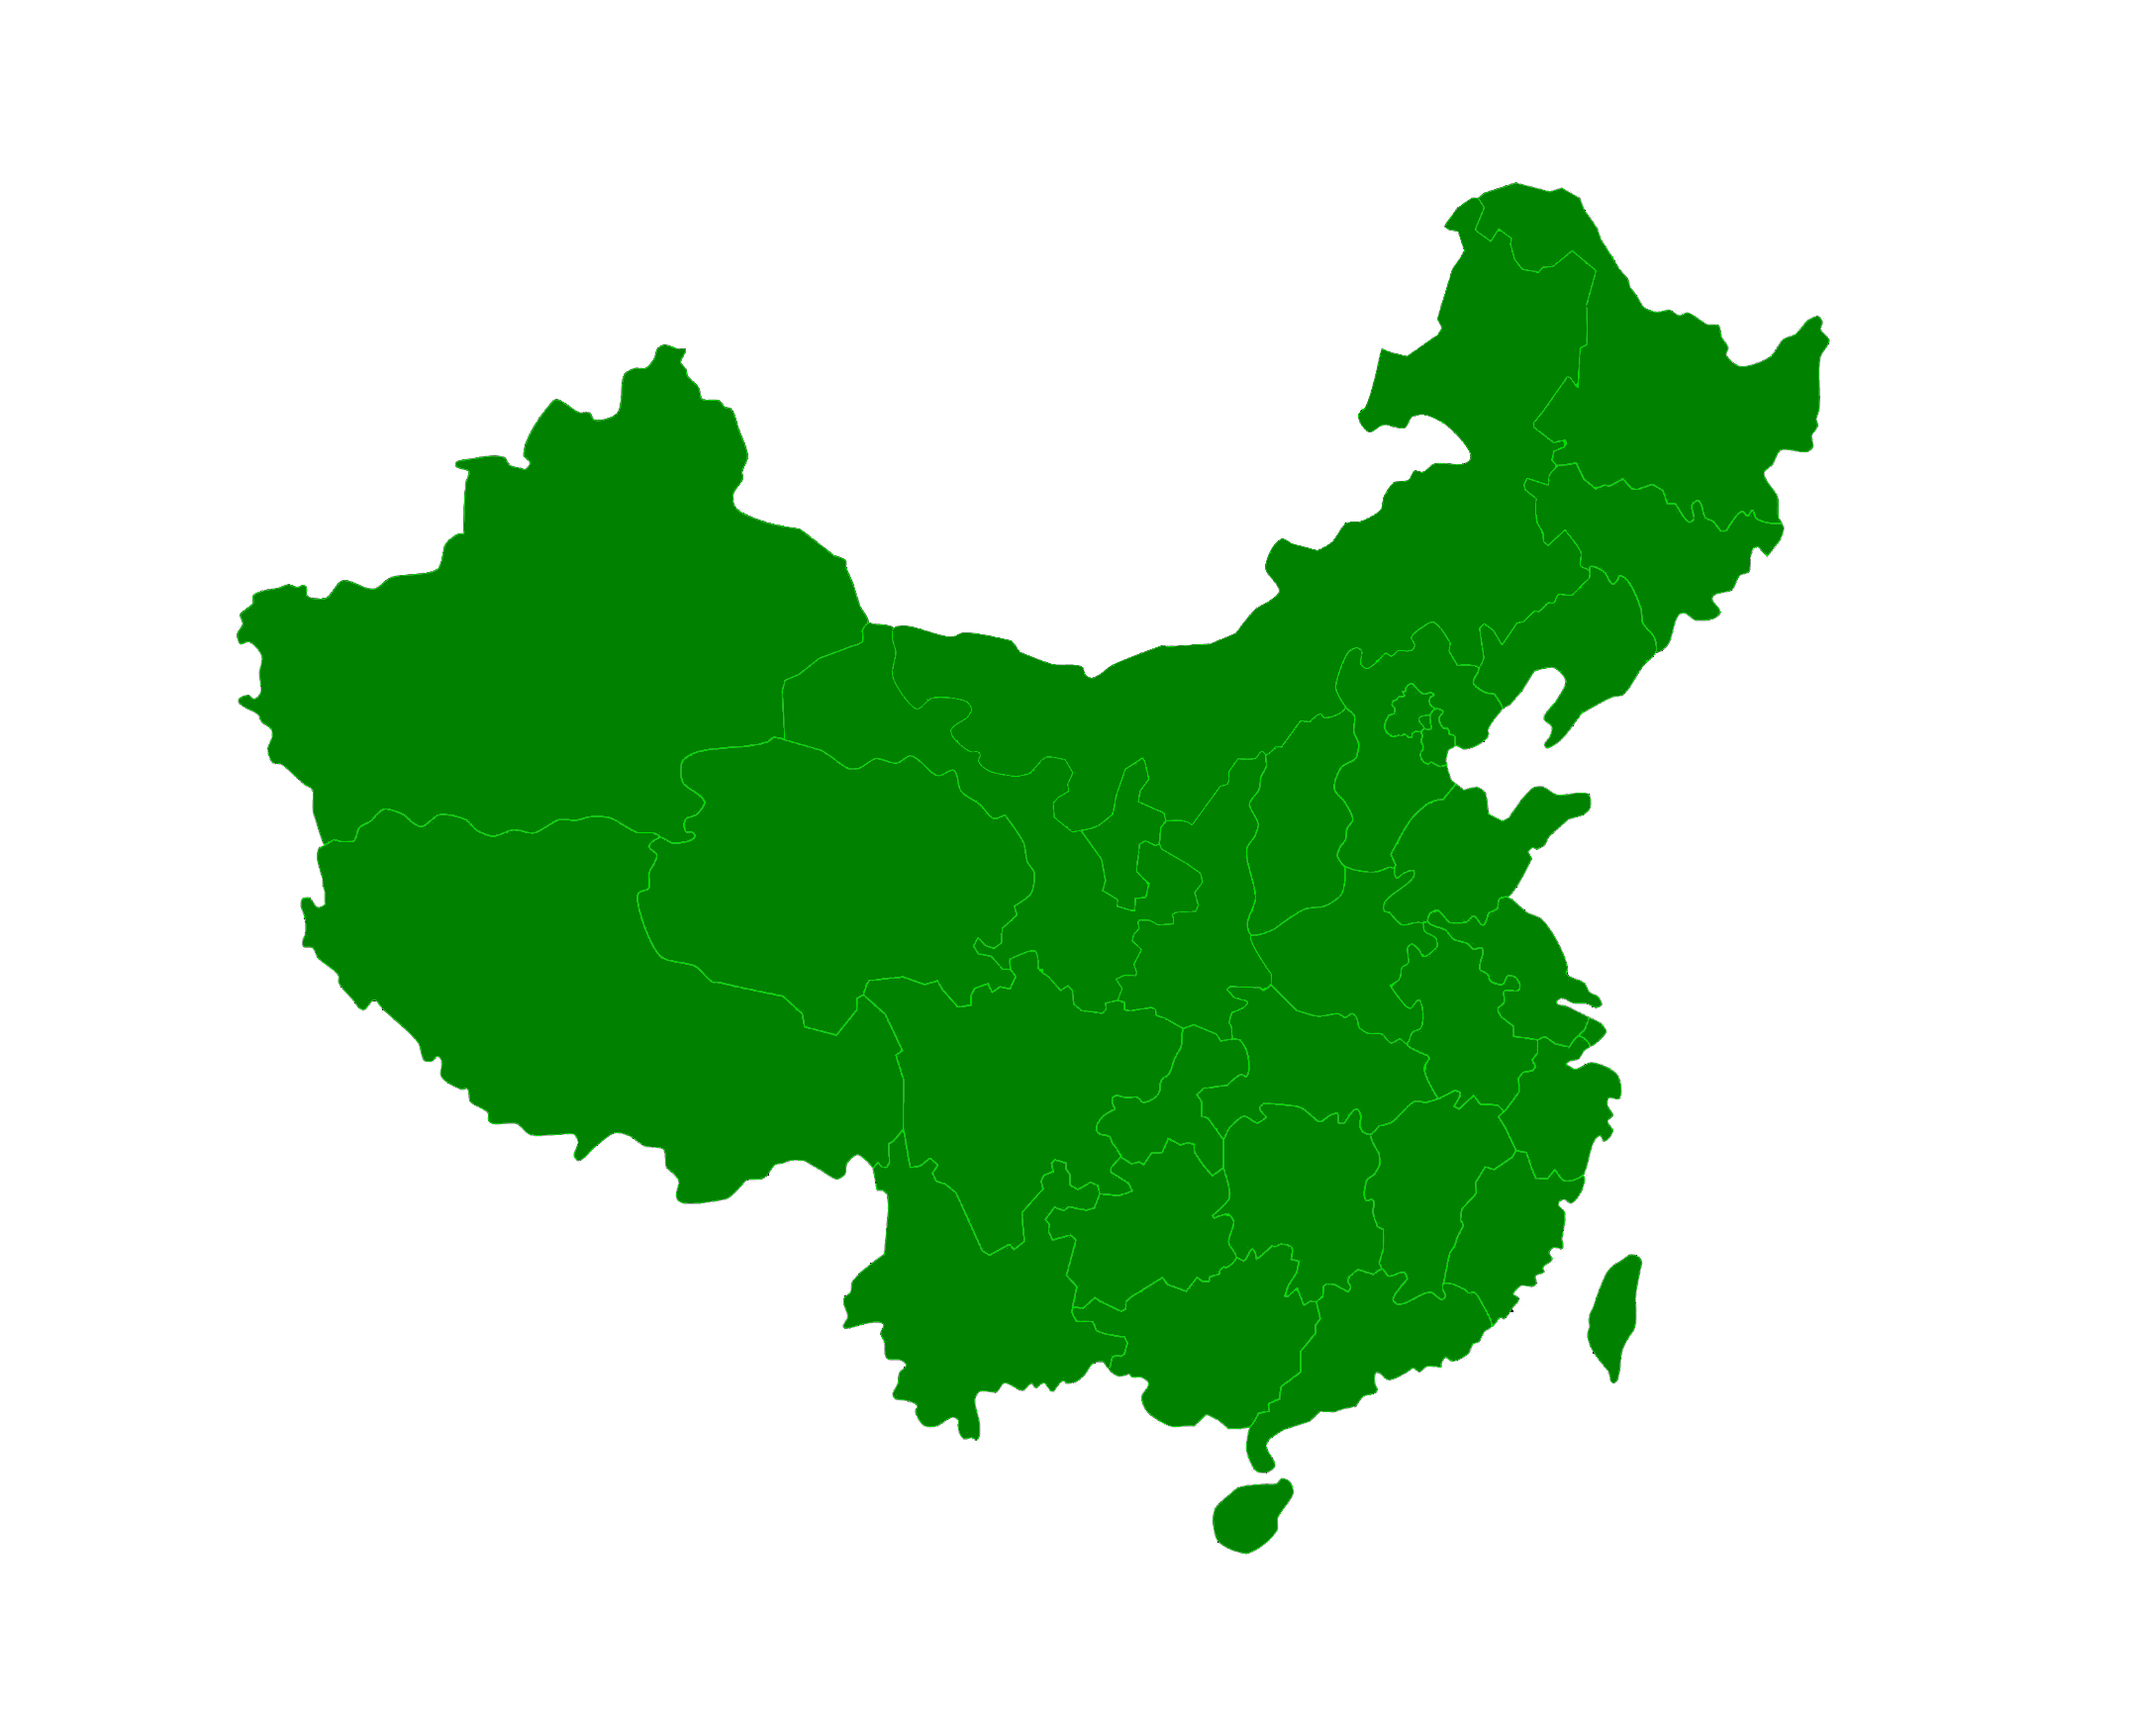
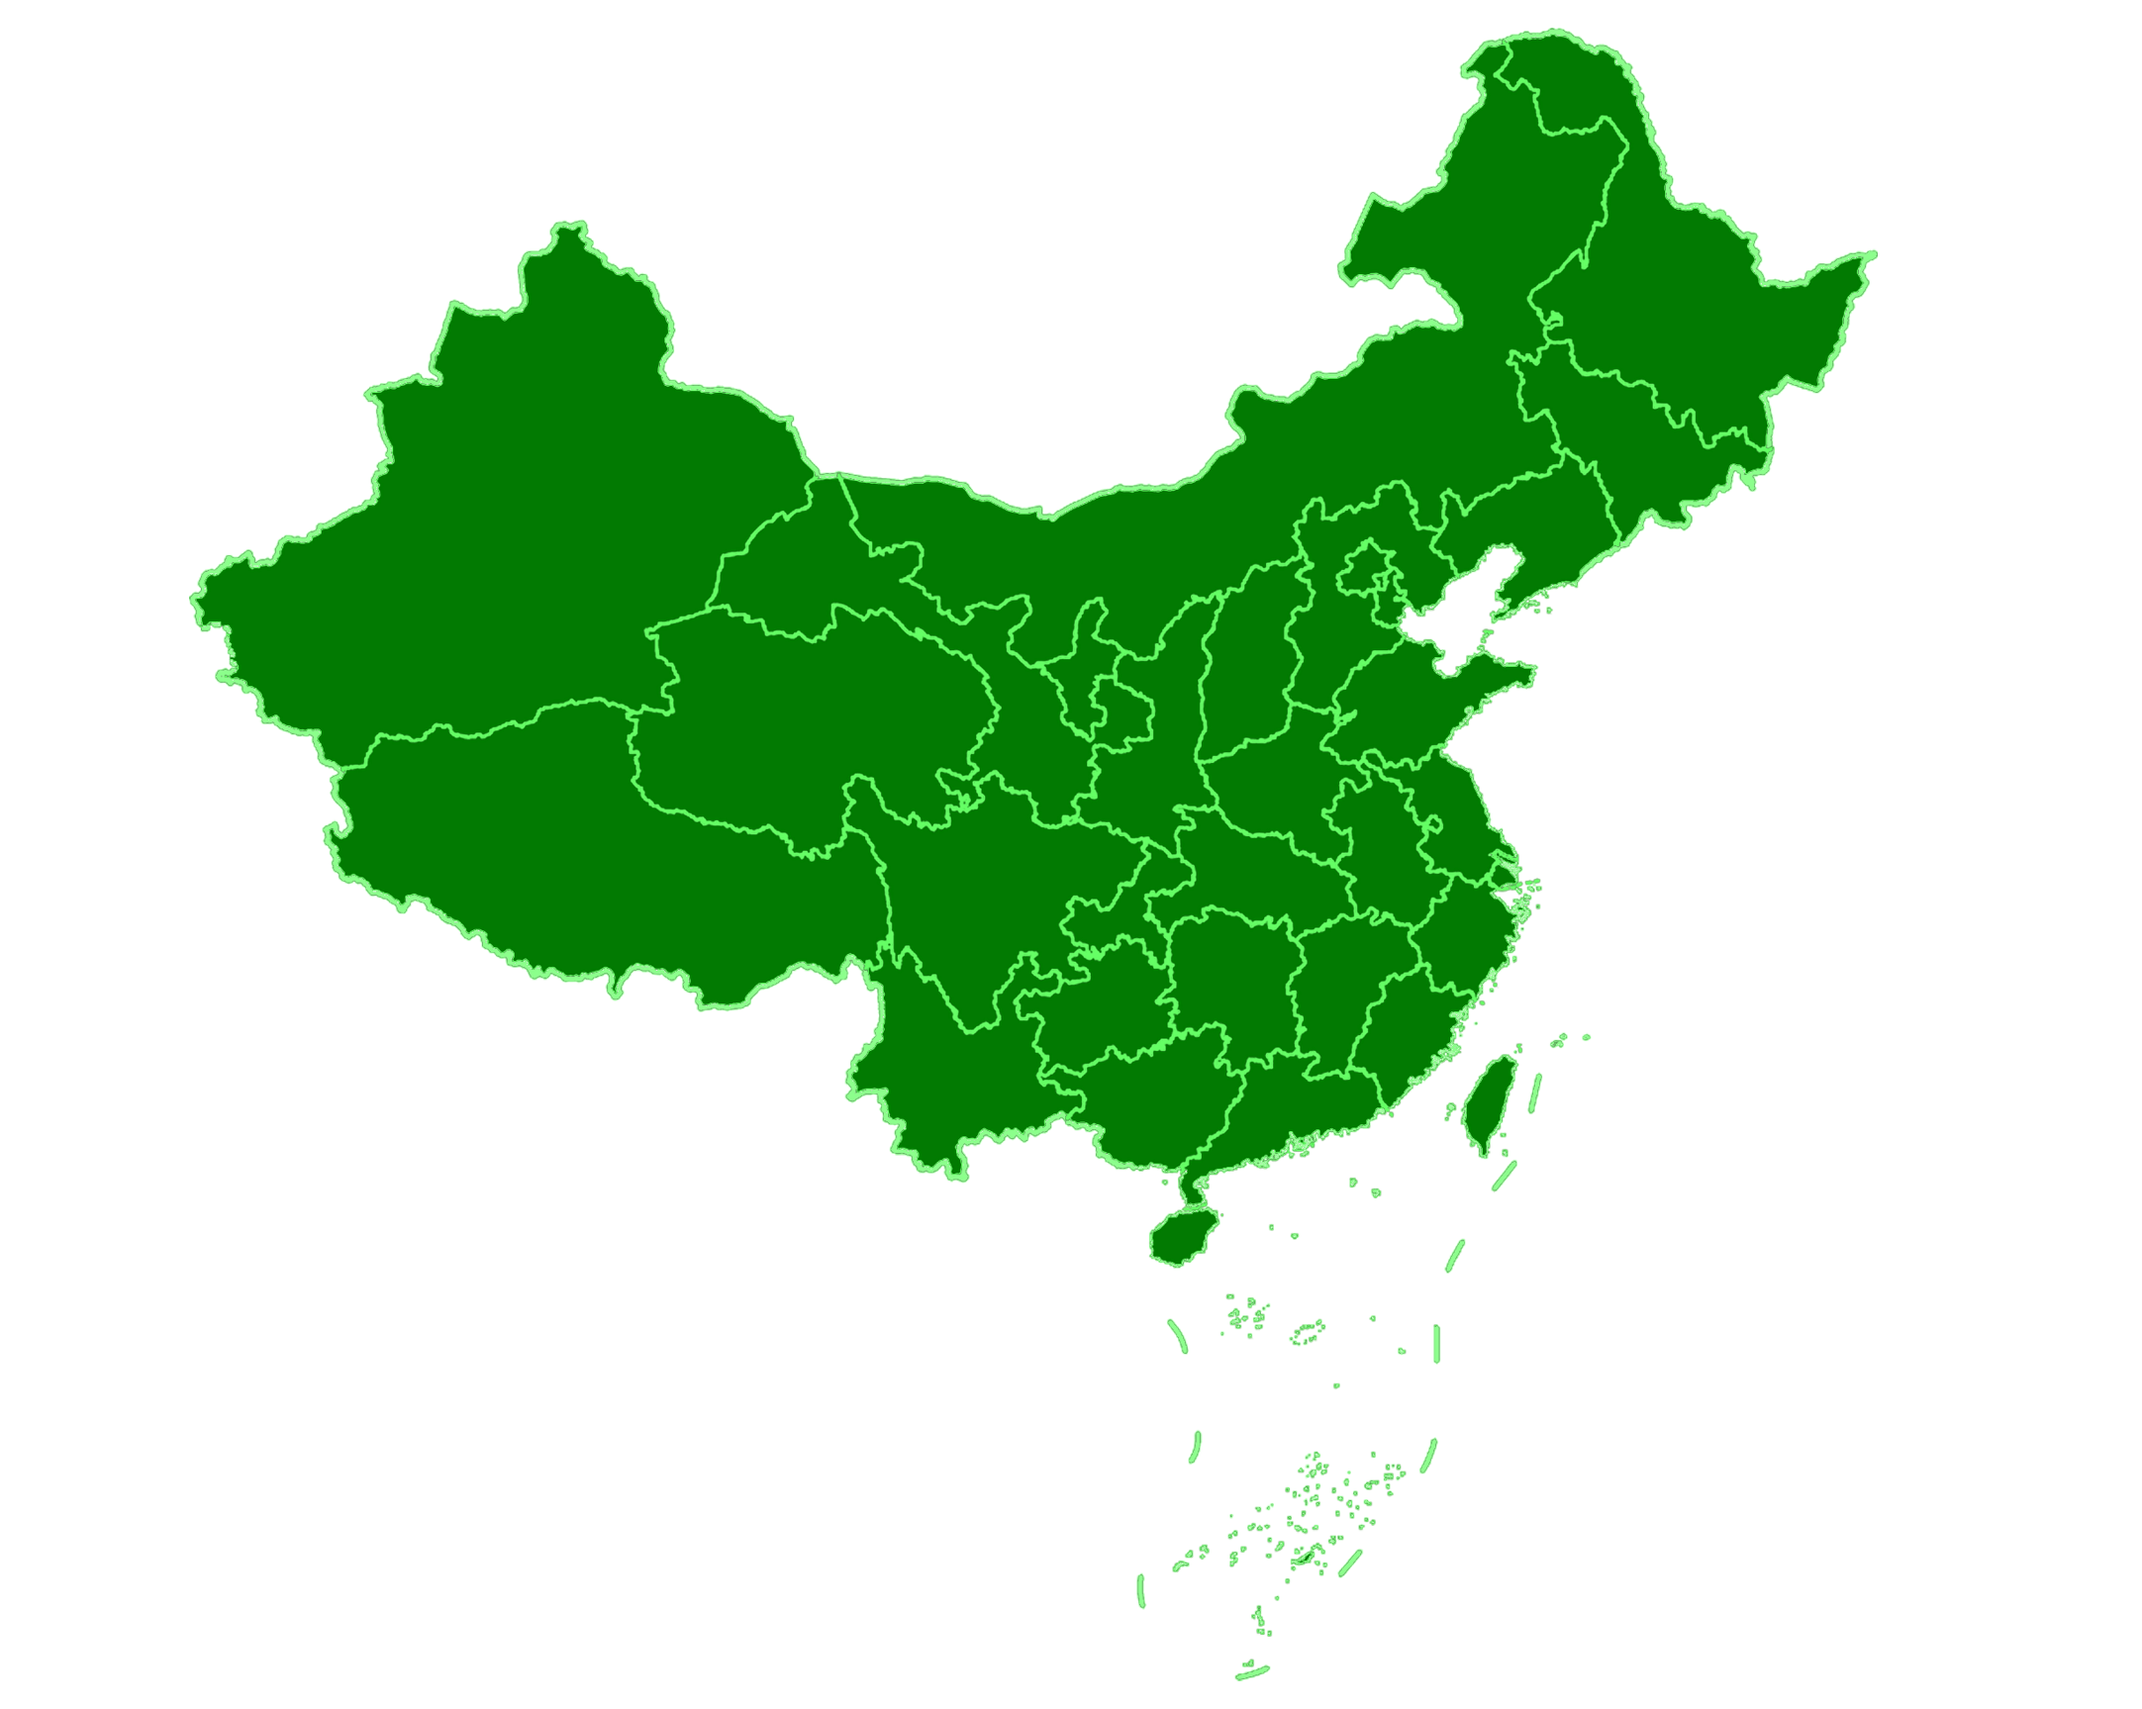
修改地图为国家标准地图
1. 修改地图为国家标准地图；
2. 修改高亮点颜色。

Changed region(s): [[0.0929, 0.0, 0.8669, 0.9207], [0.2477, 0.399, 0.3096, 0.4296], [0.3096, 0.3376, 0.3406, 0.3683]]

diff --git a/english/index.html b/english/index.html
@@ -79,14 +79,14 @@
             <h2><br><br>Exhibition</h2>
             <div class="map-container">
                 <div class="zoomable-map" 
-                 data-default-scale="3.1" 
-                 data-default-x="-328" 
-                 data-default-y="108"
-                 data-mobile-scale="3.1" 
-                 data-mobile-x="-195" 
-                 data-mobile-y="64">
-                    <img class="map-image" src="../img/map.png">
-                    <div class="map-marker" style="top: 44%; left: 67%;" data-title="六力学校科技报告厅" data-details="地址：天津市武清区源泉路15号六力学校<br>交通：武清城际站-福源道口（569、140、771、141路等），总路程约8公里">
+                 data-default-scale="2.56" 
+                 data-default-x="-223.7" 
+                 data-default-y="215.4"
+                 data-mobile-scale="3.41" 
+                 data-mobile-x="-185.7" 
+                 data-mobile-y="153.9">
+                    <img class="map-image" src="img/map.png">
+                    <div class="map-marker" style="top: 35.5%; left: 64.9%;" data-title="六力学校科技报告厅" data-details="地址：天津市武清区源泉路15号六力学校<br>交通：武清城际站-福源道口（569、140、771、141路等），总路程约8公里">
                         <div class="marker-dot"></div>
                         <div class="marker-pulse"></div>
                         <div class="marker-tooltip"></div>

diff --git a/index.html b/index.html
@@ -79,14 +79,14 @@
             <h2><br><br>场地</h2>
             <div class="map-container">
                 <div class="zoomable-map" 
-                 data-default-scale="3.1" 
-                 data-default-x="-328" 
-                 data-default-y="108"
-                 data-mobile-scale="3.1" 
-                 data-mobile-x="-195" 
-                 data-mobile-y="64">
+                 data-default-scale="2.56" 
+                 data-default-x="-223.7" 
+                 data-default-y="215.4"
+                 data-mobile-scale="3.41" 
+                 data-mobile-x="-185.7" 
+                 data-mobile-y="153.9">
                     <img class="map-image" src="img/map.png">
-                    <div class="map-marker" style="top: 44%; left: 67%;" data-title="六力学校科技报告厅" data-details="地址：天津市武清区源泉路15号六力学校<br>交通：武清城际站-福源道口（569、140、771、141路等），总路程约8公里">
+                    <div class="map-marker" style="top: 35.5%; left: 64.9%;" data-title="六力学校科技报告厅" data-details="地址：天津市武清区源泉路15号六力学校<br>交通：武清城际站-福源道口（569、140、771、141路等），总路程约8公里">
                         <div class="marker-dot"></div>
                         <div class="marker-pulse"></div>
                         <div class="marker-tooltip"></div>

diff --git a/css/styles.css b/css/styles.css
@@ -903,9 +903,10 @@ ul.custom-before li::before {
 .marker-dot {
     width: 12px;
     height: 12px;
-    background-color: #00ff0d;
+    background-color: rgb(255, 255, 255);;
     border-radius: 50%;
     animation: markerPulse 2s infinite;
+    
 }
 
 .marker-pulse {
@@ -914,9 +915,10 @@ ul.custom-before li::before {
     height: 20px;
     left: -4px;
     top: -4px;
-    background-color: rgba(108, 255, 133, 0.4);
+    background-color: rgba(255, 0, 166, 0.371);
     border-radius: 50%;
     animation-delay: 0.5s;
+    backdrop-filter: invert(100%);
 }
 
 .map-caption {

diff --git a/README.md b/README.md
@@ -1,1 +1,9 @@
-## A NCBC2025 Web Site.
+# A NCBC2025 Web Site.
+
+## 部分规范：
+
+主要颜色：#00ff00
+高亮颜色：#FF00A6
+
+全角问号 [？] 替换为半角问号+空格 [? ]
+全角叹号 [? ] 替换为半角叹号+空格 [! ]
